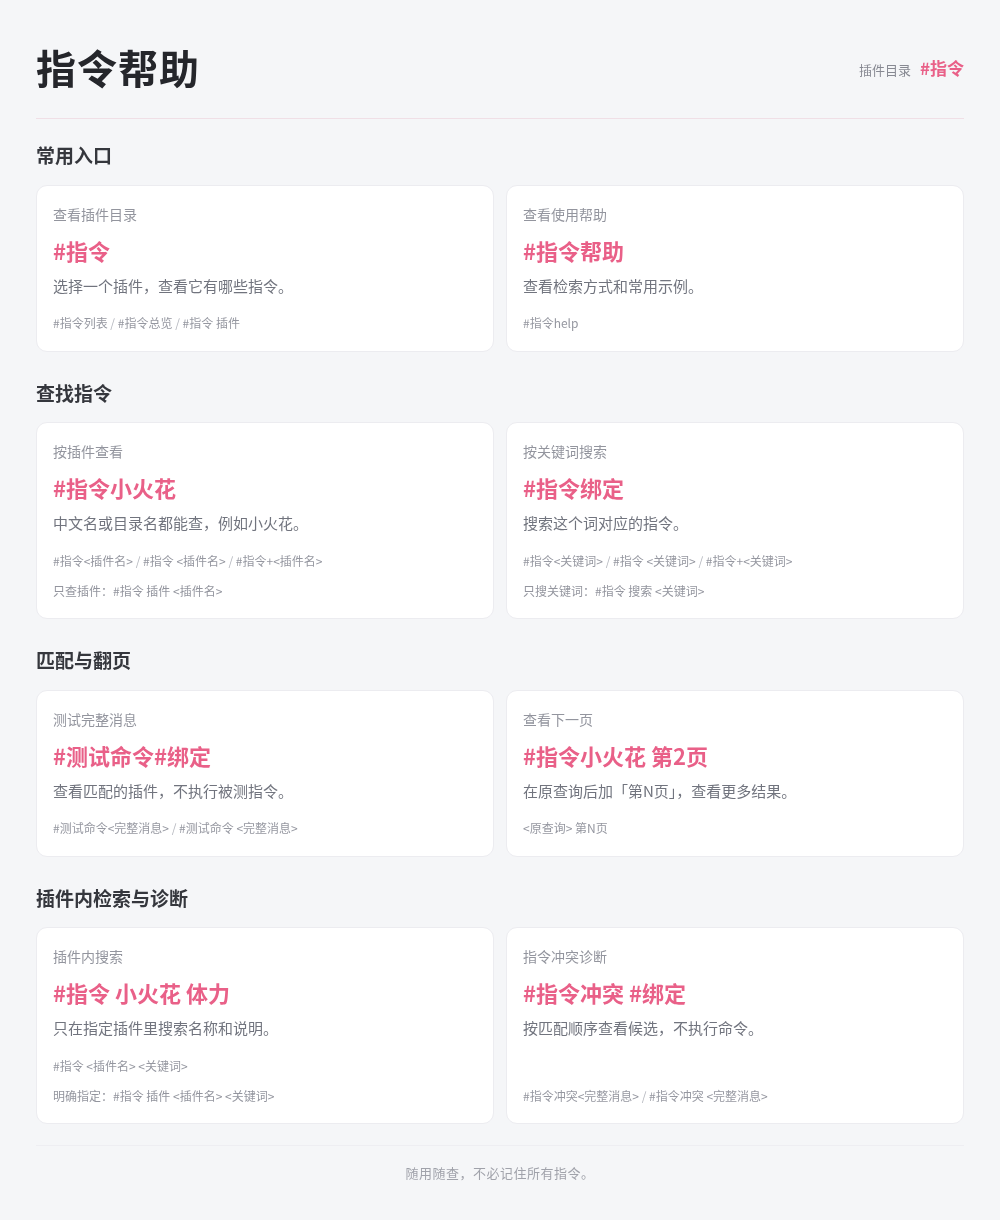
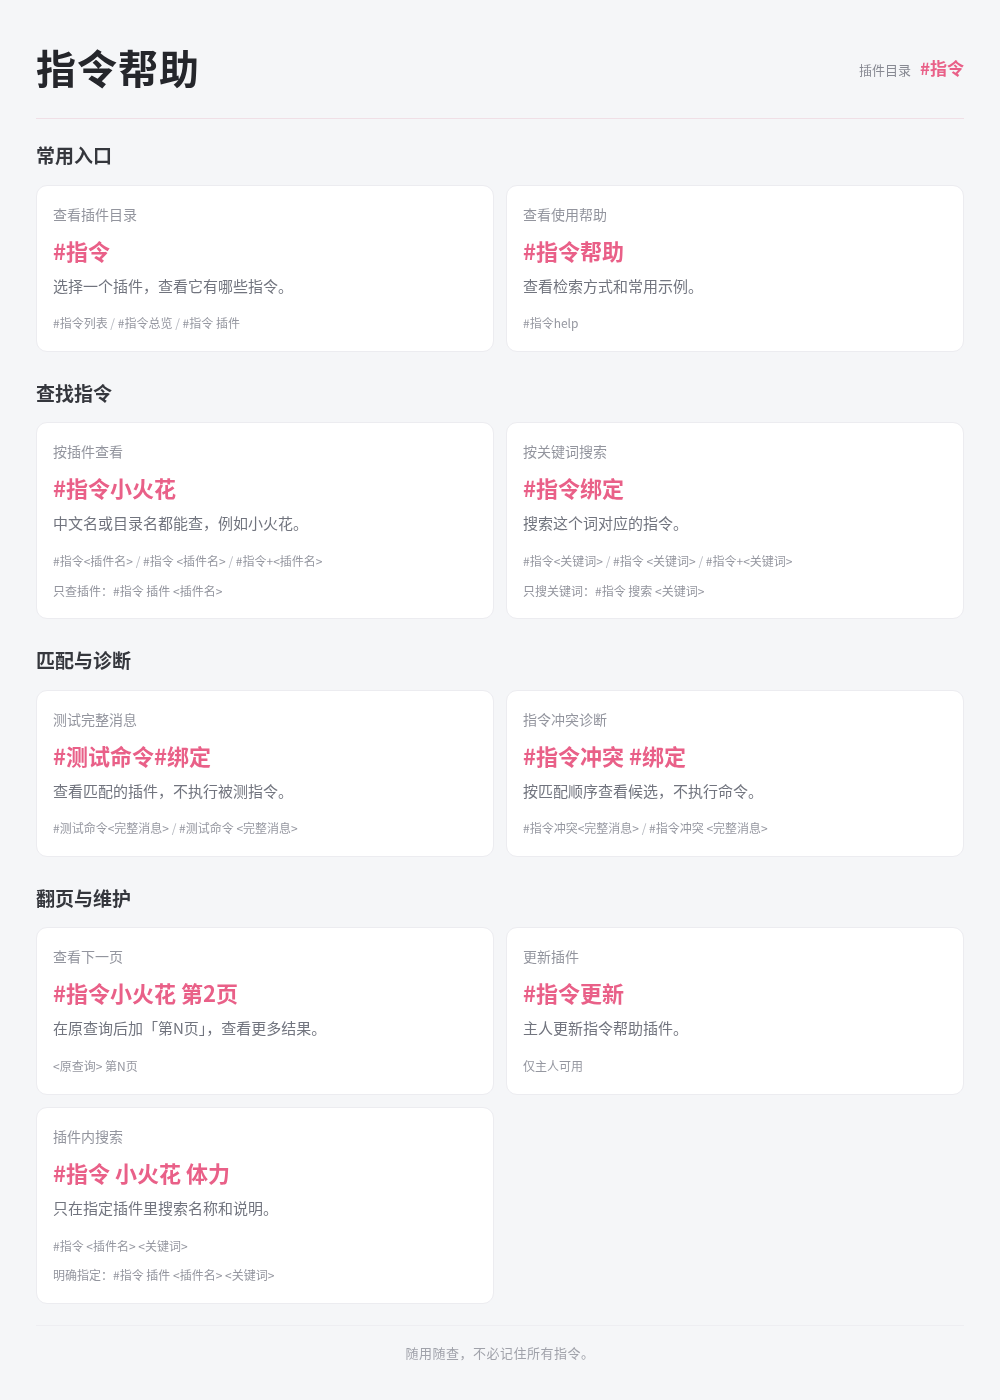
feat(指令帮助): 新增插件与依赖一键更新
- 主人可用 #指令更新 同步插件和变更的依赖

- 依赖安装失败后可重发指令补装

- 更新三平台安装说明和帮助图

diff --git a/utils/updater.js b/utils/updater.js
@@ -1,0 +1,103 @@
+import { execFile as nodeExecFile } from 'node:child_process'
+import { promisify } from 'node:util'
+import fs from 'node:fs/promises'
+import path from 'node:path'
+import { fileURLToPath } from 'node:url'
+
+const execFile = promisify(nodeExecFile)
+const pluginRoot = path.resolve(fileURLToPath(new URL('../', import.meta.url)))
+const allowedOrigins = new Set([
+  'https://gitcode.com/ccxhan/command-help-plugin',
+  'https://github.com/cchanlan/command-help-plugin',
+  'https://gitee.com/longhengmu/command-help-plugin',
+])
+// 命令行只接收固定参数。Windows 用 cmd 启动 pnpm.cmd；实装在 Linux/JiuLi 验证。
+const installArgs = ['install', '--ignore-workspace', '--ignore-scripts', '--no-lockfile']
+const errorText = error => String(error.stderr || error.message || error).replace(/https?:\/\/[^\s@]+:[^\s@]+@/g, '[REDACTED]')
+
+export function canonicalOrigin(value) {
+  try {
+    const url = new URL(value)
+    if (url.protocol !== 'https:' || url.username || url.password || url.search || url.hash) return ''
+    const pathname = url.pathname.replace(/\.git$/i, '').replace(/\/$/, '')
+    return `${url.protocol}//${url.host}${pathname}`.toLowerCase()
+  } catch { return '' }
+}
+
+/** 允许注入执行器做隔离测试，生产只在本插件仓库运行固定命令。 */
+export function createPluginUpdater({ cwd = pluginRoot, execFileImpl = execFile, fsImpl = fs, platform = process.platform } = {}) {
+  const run = (bin, args, env = {}) => execFileImpl(bin, args, {
+    cwd,
+    windowsHide: true,
+    timeout: 120000,
+    maxBuffer: 2 * 1024 * 1024,
+    env: { ...process.env, GIT_TERMINAL_PROMPT: '0', GCM_INTERACTIVE: 'never', ...env },
+  })
+  const git = args => run('git', args)
+  const installDependencies = () => platform === 'win32'
+    ? run('cmd.exe', ['/d', '/c', 'pnpm', ...installArgs], { CI: 'true' })
+    : run('pnpm', installArgs, { CI: 'true' })
+
+  return async function runUpdate() {
+    const realRoot = await fsImpl.realpath(cwd)
+    const [{ stdout: top }, { stdout: branch }, { stdout: origin }, { stdout: dirty }] = await Promise.all([
+      git(['rev-parse', '--show-toplevel']),
+      git(['branch', '--show-current']),
+      git(['config', '--get', 'remote.origin.url']),
+      git(['status', '--porcelain']),
+    ])
+    const reportedRoot = path.resolve(top.trim())
+    const sameRoot = platform === 'win32' ? reportedRoot.toLowerCase() === realRoot.toLowerCase() : reportedRoot === realRoot
+    if (!sameRoot) throw new Error('当前目录不是插件仓库根目录')
+    if (!allowedOrigins.has(canonicalOrigin(origin.trim()))) throw new Error('origin 不属于官方三平台仓库，已拒绝更新')
+    if (branch.trim() !== 'main') throw new Error('当前分支不是 main，已拒绝更新')
+    if (dirty.trim()) throw new Error('插件有未提交的本地修改，已停止更新')
+
+    const { stdout: gitPath } = await git(['rev-parse', '--git-path', 'command-help-dependencies-pending'])
+    const marker = path.resolve(cwd, gitPath.trim())
+    const { stdout: before } = await git(['rev-parse', 'HEAD'])
+    await git(['pull', '--ff-only', 'origin', 'main'])
+    const { stdout: after } = await git(['rev-parse', 'HEAD'])
+    const from = before.trim(), to = after.trim()
+    const updated = from !== to
+    const result = { updated, from, to }
+    if (updated) {
+      const { stdout: packageDiff } = await git(['diff', '--name-only', from, to, '--', 'package.json', 'package-lock.json', 'pnpm-lock.yaml'])
+      if (packageDiff.trim()) await fsImpl.writeFile(marker, to)
+    }
+    // 代码已快进但依赖失败时保留标记，重发指令即使没有新提交也会再装。
+    try { await fsImpl.access(marker) }
+    catch (error) {
+      if (error.code !== 'ENOENT') throw error
+      return result
+    }
+    try {
+      await installDependencies()
+      await fsImpl.rm(marker, { force: true })
+      return { ...result, dependenciesInstalled: true }
+    } catch (error) {
+      globalThis.logger?.error?.(`[指令帮助] pnpm 安装依赖失败: ${errorText(error)}`)
+      return { ...result, dependenciesFailed: true }
+    }
+  }
+}
+
+const runPluginUpdate = createPluginUpdater()
+
+export function createUpdateCoordinator(run = runPluginUpdate) {
+  let pending
+  return function update() {
+    if (pending) return { kind: 'busy', promise: pending }
+    pending = Promise.resolve().then(run)
+      .then(result => ({ kind: result.dependenciesFailed ? 'dependencies-failed' : result.updated || result.dependenciesInstalled ? 'updated' : 'current', ...result }))
+      .catch(error => {
+        globalThis.logger?.error?.(`[指令帮助] 自动更新失败: ${errorText(error)}`)
+        return { kind: 'failed', error }
+      })
+      .finally(() => { pending = undefined })
+    return { kind: 'started', promise: pending }
+  }
+}
+
+const updateCoordinator = createUpdateCoordinator()
+export function updatePlugin() { return updateCoordinator() }

diff --git a/apps/help.js b/apps/help.js
@@ -6,6 +6,7 @@ import { matchRules } from '../utils/matcher.js'
 import { helpText, parseQuery, commandBlocks, conflictBlocks, sendPage } from '../utils/output.js'
 import { replyHelpImage } from '../utils/render.js'
 import { directoryGroups, pluginLabel } from '../utils/pluginNames.js'
+import { updatePlugin } from '../utils/updater.js'
 
 /** 整名优先，再按最长插件名前缀识别「插件 关键词」。 */
 export function resolveScope(groups, query, includeModules = false) {
@@ -33,6 +34,7 @@ export class CommandHelp extends plugin {
       name: '指令帮助', dsc: '插件目录、关键词检索、完整消息测试与冲突诊断',
       event: 'message', priority: -501,
       rule: [
+        { reg: /^#指令更新$/, fnc: 'update', desc: '更新指令帮助插件', permission: 'master' },
         { reg: /^#指令冲突/, fnc: 'conflict', desc: '查看规则匹配顺序与候选冲突' },
         { reg: /^#指令/, fnc: 'lookup', desc: '查看插件目录或搜索指令' },
         { reg: /^#测试命令/, fnc: 'test', desc: '只匹配完整消息，不执行命令' },
@@ -42,6 +44,22 @@ export class CommandHelp extends plugin {
   async lookup(e) { return this.handle(e, '#指令') }
   async test(e) { return this.handle(e, '#测试命令') }
   async conflict(e) { return this.handle(e, '#指令冲突') }
+
+  async update(e) {
+    // 双重主人检查，避免其他兼容框架没有 permission 钩子时暴露 Git 更新操作。
+    if (!e.isMaster) return true
+    const task = updatePlugin()
+    if (task.kind === 'busy') { await e.reply('更新正在进行中，请稍后查看。'); return true }
+    await e.reply('正在更新指令帮助插件。')
+    const result = await task.promise
+    if (result.kind === 'dependencies-failed') {
+      await e.reply(`${result.updated ? '代码已更新，' : ''}依赖安装失败。请确认 pnpm 可用后重发 #指令更新。`)
+    } else if (result.kind === 'updated') {
+      await e.reply(result.dependenciesInstalled ? (result.updated ? '代码和依赖已更新。' : '依赖已更新。') : '指令帮助插件已更新。')
+    } else if (result.kind === 'current') await e.reply('指令帮助插件已是最新版本。')
+    else await e.reply('更新失败，请查看运行日志。')
+    return true
+  }
 
   async handle(e, prefix) {
     const { query, page, mode } = parseQuery(e.msg, prefix)

diff --git a/utils/helpContent.js b/utils/helpContent.js
@@ -6,6 +6,7 @@ export const helpSections = [
   { title: '按关键词搜索', command: '#指令绑定', description: '搜索这个词对应的指令。', aliases: '#指令<关键词> / #指令 <关键词> / #指令+<关键词>', extra: '只搜关键词：#指令 搜索 <关键词>' },
   { title: '测试完整消息', command: '#测试命令#绑定', description: '查看匹配的插件，不执行被测指令。', aliases: '#测试命令<完整消息> / #测试命令 <完整消息>' },
   { title: '查看下一页', command: '#指令小火花 第2页', description: '在原查询后加「第N页」，查看更多结果。', aliases: '<原查询> 第N页' },
+  { title: '更新插件', command: '#指令更新', description: '主人更新指令帮助插件。', aliases: '仅主人可用' },
   { title: '插件内搜索', command: '#指令 小火花 体力', description: '只在指定插件里搜索名称和说明。', aliases: '#指令 <插件名> <关键词>', extra: '明确指定：#指令 插件 <插件名> <关键词>' },
   { title: '指令冲突诊断', command: '#指令冲突 #绑定', description: '按匹配顺序查看候选，不执行命令。', aliases: '#指令冲突<完整消息> / #指令冲突 <完整消息>' },
 ]

diff --git a/utils/render.js b/utils/render.js
@@ -15,10 +15,10 @@ export function imageData(kind, catalog) {
     outro: '随用随查，不必记住所有指令。',
     sections: helpSections,
     helpGroups: [
-      { title: '常用入口', list: helpSections.slice(0, 2) },
-      { title: '查找指令', list: helpSections.slice(2, 4) },
-      { title: '匹配与翻页', list: helpSections.slice(4, 6) },
-      { title: '插件内检索与诊断', list: helpSections.slice(6, 8) },
+      { title: '常用入口', list: [helpSections[0], helpSections[1]] },
+      { title: '查找指令', list: [helpSections[2], helpSections[3]] },
+      { title: '匹配与诊断', list: [helpSections[4], helpSections[8]] },
+      { title: '翻页与维护', list: [helpSections[5], helpSections[6], helpSections[7]] },
     ].map(group => ({ ...group, list: group.list.map(item => ({
       ...item,
       aliasList: item.aliases.split(' / '),

diff --git a/README.md b/README.md
@@ -11,6 +11,7 @@
 - `#指令 小火花 体力`：只搜指定插件。
 - `#测试命令#绑定`：匹配完整消息，保留实际被测写法，不执行业务。
 - `#指令冲突 #绑定`：按加载器顺序列出匹配候选、优先级和场景限制。
+- `#指令更新`：仅主人可用，更新插件和依赖。
 - 已加载 xiaoyao 的 Apps.rule 分发器可静态展开内部规则；未适配的其他分发器不冒充已抓全。
 
 ## 安装
@@ -38,8 +39,12 @@ git clone https://github.com/cchanlan/command-help-plugin.git ./plugins/command-
 **安装依赖**
 
 ```sh
-npm --prefix ./plugins/command-help-plugin install --workspaces=false --ignore-scripts
+cd ./plugins/command-help-plugin && pnpm i --ignore-workspace
 ```
+
+**更新插件**
+
+主人发送 `#指令更新` 更新插件，依赖有变化会自动安装。安装失败时，确认 pnpm 可用后重发指令。
 
 启动机器人后发送 `#指令帮助`。JiuLi 可自动加载新增插件；未自动加载时按宿主框架的方式重启机器人。
 
@@ -55,6 +60,7 @@ npm --prefix ./plugins/command-help-plugin install --workspaces=false --ignore-s
 #指令 小火花 体力
 #测试命令#绑定
 #指令冲突 #绑定
+#指令更新
 ```
 
 把“小火花”换成自己安装的插件中文名或目录名即可。插件名和关键词重名时使用 `#指令 搜索 <关键词>`。
@@ -87,6 +93,7 @@ npm --prefix ./plugins/command-help-plugin install --workspaces=false --ignore-s
 | `#指令 <插件名> <关键词>`、`#指令 插件 <插件名> <关键词>` | 插件内搜索，例如 `#指令 小火花 体力` |
 | `#测试命令<完整消息>`、`#测试命令 <完整消息>` | 完整消息匹配，不执行 |
 | `#指令冲突<完整消息>`、`#指令冲突 <完整消息>` | 只读候选冲突诊断 |
+| `#指令更新` | 仅主人；更新插件并自动安装变更的依赖 |
 | `<以上查询> 第N页` | 翻页，例如 `#指令 小火花 体力 第2页` |
 
 查询最多 200 个 UTF-16 代码单元，页码后缀不计入；`+` 只在 `#指令` 后作为可选分隔符。`#测试命令`、`#指令冲突` 后的 `+` 是被测消息内容。
